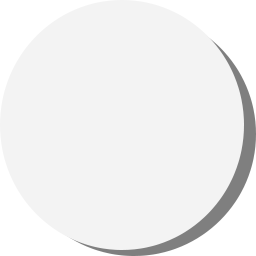
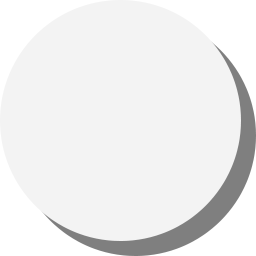
New dot texture

diff --git a/core/src/com/tobloef/yoto/GameScreen.java b/core/src/com/tobloef/yoto/GameScreen.java
@@ -36,6 +36,9 @@ public class GameScreen implements Screen, InputProcessor {
     private boolean completed = false;
     private int score = 0;
     private int scoreGoal;
+    
+    private float textureOffset;
+    private float dotTextureSize;
 
     private Level level;
 
@@ -52,21 +55,22 @@ public class GameScreen implements Screen, InputProcessor {
         Gdx.input.setCatchBackKey(true);
 
         backgroundColor = blue;
-        dotTexture = game.manager.get("dot_white.png", Texture.class);
-        shadowTexture = game.manager.get("dot_shadow.png", Texture.class);
+        dotTexture = game.manager.get("dot.png", Texture.class);
         restartTexture = game.manager.get("restart_icon.png", Texture.class);
         popSound = game.manager.get("pop.mp3", Sound.class);
         timeSincePop = System.currentTimeMillis();
         scoreFont = game.manager.get("score_font.ttf", BitmapFont.class);
 
         scoreGoal = Math.round(level.count * level.completionPercentage);
-
+        textureOffset = (dotTexture.getWidth()-15)*game.sizeModifier;
 
         /*  Spawn the dots  */
         for (int i = 0; i < level.count; i++) {
-            dots.add(new Dot(new Vector3(game.random.nextFloat() * (game.screenSize.x - ((dotTexture.getWidth() * level.dotSize/2) * 2)) + (dotTexture.getWidth() * level.dotSize/2),
-                    game.random.nextFloat() * (game.screenSize.y - ((dotTexture.getWidth() * level.dotSize/2) * 2)) + (dotTexture.getWidth() * level.dotSize/2), 0),
-                    new Vector3(game.random.nextFloat() * 2f - 1f, game.random.nextFloat() * 2f - 1f, 0).nor(), level.speed, level.dotSize, level.maxSize));
+            float posX = game.random.nextFloat() * (game.screenSize.x - textureOffset*2) + textureOffset*2;
+            float posY = game.random.nextFloat() * (game.screenSize.y - textureOffset*2) + textureOffset*2;
+            Vector3 position = new Vector3(posX, posY, 0);
+            Vector3 direction = new Vector3(game.random.nextFloat() * 2f - 1f, game.random.nextFloat() * 2f - 1f, 0).nor();
+            dots.add(new Dot(position, direction, level.speed, level.dotSize, level.maxSize));
         }
     }
 
@@ -79,12 +83,9 @@ public class GameScreen implements Screen, InputProcessor {
         game.batch.setProjectionMatrix(camera.combined);
         game.batch.begin();
         for (Dot dot: dots) {
-            game.batch.draw(shadowTexture, (dot.position.x - dotTexture.getWidth() * dot.size / 2) + (dotTexture.getWidth() * dot.size * 0.2f * level.dotSize), (dot.position.y - dotTexture.getWidth() * dot.size / 2) - (dotTexture.getWidth() * 0.2f * level.dotSize), dotTexture.getWidth() * dot.size, dotTexture.getWidth() * dot.size);
+            game.batch.draw(dotTexture, dot.position.x - textureOffset*dot.size, dot.position.y - textureOffset*dot.size, dotTexture.getWidth()*dot.size, dotTexture.getWidth()*dot.size);
         }
-        for (Dot dot: dots) {
-            game.batch.draw(dotTexture, dot.position.x - dotTexture.getWidth() * dot.size / 2, dot.position.y - dotTexture.getWidth() * dot.size / 2, dotTexture.getWidth() * dot.size, dotTexture.getWidth() * dot.size);
-        }
-        game.batch.draw(restartTexture, game.screenSize.x-150f*game.sizeModifier, game.screenSize.y-150f*game.sizeModifier, restartTexture.getWidth()/2 * game.sizeModifier, restartTexture.getWidth()/2 * game.sizeModifier);
+        game.batch.draw(restartTexture, game.screenSize.x - 150f * game.sizeModifier, game.screenSize.y - 150f * game.sizeModifier, restartTexture.getWidth() /2 * game.sizeModifier, restartTexture.getWidth()/2 * game.sizeModifier);
         scoreFont.draw(game.batch, score + "/" + scoreGoal, 30 * game.sizeModifier, game.screenSize.y - (30 * game.sizeModifier));
         game.batch.end();
 
@@ -97,12 +98,12 @@ public class GameScreen implements Screen, InputProcessor {
                 dot.position = position;
 
                 /*  Physics  */
-                if (dot.position.x <= 0 + (dotTexture.getWidth() * dot.size / 2) || dot.position.x + (dotTexture.getWidth() * dot.size / 2) >= game.screenSize.x) {
+                if (dot.position.x <= textureOffset || dot.position.x >= game.screenSize.x - textureOffset) {
                     Vector3 direction = dot.direction;
                     direction.x = -direction.x;
                     dot.direction = direction;
                 }
-                if (dot.position.y <= 0 + (dotTexture.getWidth() * dot.size / 2) || dot.position.y + (dotTexture.getWidth() * dot.size / 2) >= game.screenSize.y) {
+                if (dot.position.y <= textureOffset || dot.position.y >= game.screenSize.y - textureOffset) {
                     Vector3 direction = dot.direction;
                     direction.y = -direction.y;
                     dot.direction = direction;
@@ -112,7 +113,7 @@ public class GameScreen implements Screen, InputProcessor {
                 /*  Dot Collision  */
                 for (int i = 0; i < dots.size; i++) {
                     if (!dots.get(i).activated && dots.get(i) != dot) {
-                        if (dot.position.dst(dots.get(i).position) < ((dotTexture.getWidth() * dot.size) / 2) + ((dotTexture.getWidth() *  dots.get(i).size) / 2)) {
+                        if (dot.position.dst(dots.get(i).position) < ((dotTexture.getWidth() * game.sizeModifier * dot.size) / 2) + ((dotTexture.getWidth() * game.sizeModifier *  dots.get(i).size) / 2)) {
                             if (System.currentTimeMillis() - timeSincePop > 50) {
                                 timeSincePop = System.currentTimeMillis();
                                 popSound.play(0.5f, game.random.nextFloat()*(1.25f - 0.75f) + 0.5f, 0);

diff --git a/core/src/com/tobloef/yoto/SplashScreen.java b/core/src/com/tobloef/yoto/SplashScreen.java
@@ -71,8 +71,7 @@ public class SplashScreen implements Screen {
 
 
         game.manager.load("pop.mp3", Sound.class);
-        game.manager.load("dot_white.png", Texture.class);
-        game.manager.load("dot_shadow.png", Texture.class);
+        game.manager.load("dot.png", Texture.class);
         game.manager.load("splash_logo.png", Texture.class);
         game.manager.load("restart_icon.png", Texture.class);
 
